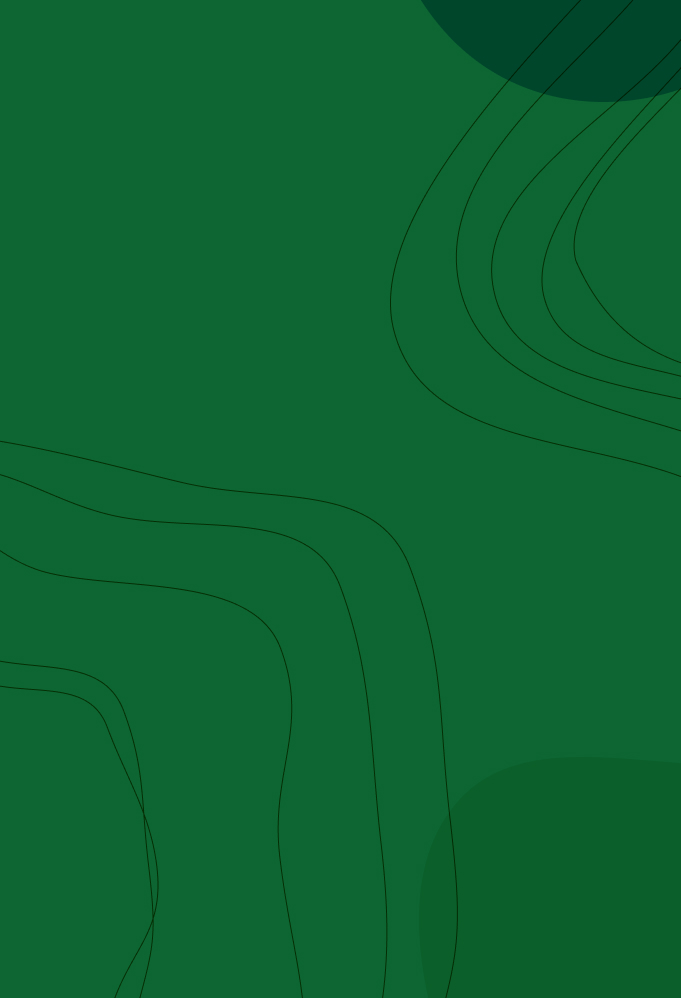
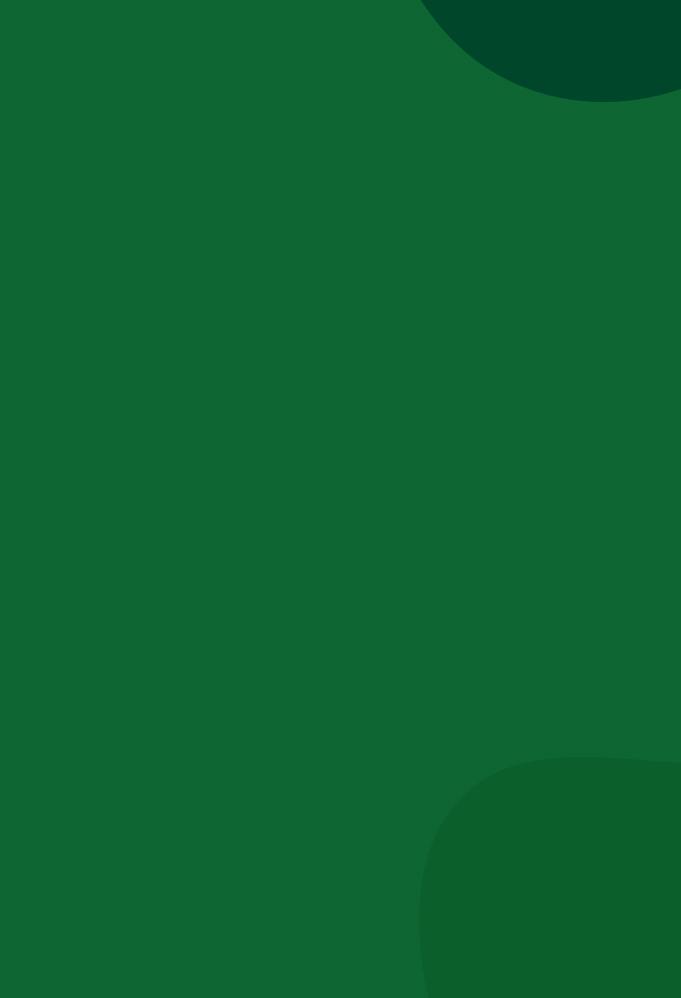
refactor: remove background image from QuizCardShell component
- Eliminated the background image from the QuizCardShell component to streamline the design and improve performance.
- Updated related styles to maintain visual integrity without the background image.
- Updated binary assets for dashboard images to ensure consistency with the new design.

Changed region(s): [[0.2159, 0.8697, 0.2467, 0.9319], [0.185, 0.7766, 0.2159, 0.8076]]

diff --git a/components/quiz/quiz-card-shell.tsx b/components/quiz/quiz-card-shell.tsx
@@ -9,17 +9,6 @@ interface QuizCardShellProps {
 export function QuizCardShell({ rewardLabel, children }: QuizCardShellProps) {
   return (
     <div className="relative mx-auto w-full max-w-[828px] overflow-hidden rounded-[20px] bg-verde-escuro-500 px-3 pb-4 pt-3 sm:rounded-[24px] sm:px-4 sm:pb-5 sm:pt-4 lg:px-5 lg:pb-6 lg:pt-5 2xl:px-6 2xl:pb-10 2xl:pt-8">
-      <div className="pointer-events-none absolute inset-0" aria-hidden>
-        <Image
-          src={dashboardAssets.quiz.background}
-          alt=""
-          fill
-          sizes="828px"
-          className="object-cover opacity-60"
-          unoptimized
-        />
-      </div>
-
       <div className="relative z-10 flex flex-col gap-3 sm:gap-4 lg:gap-5 2xl:gap-10">
         <header className="flex flex-col gap-2 sm:flex-row sm:items-center sm:justify-between sm:gap-3">
           <span className="text-xs text-verde-200 sm:text-sm lg:text-base 2xl:text-2xl">